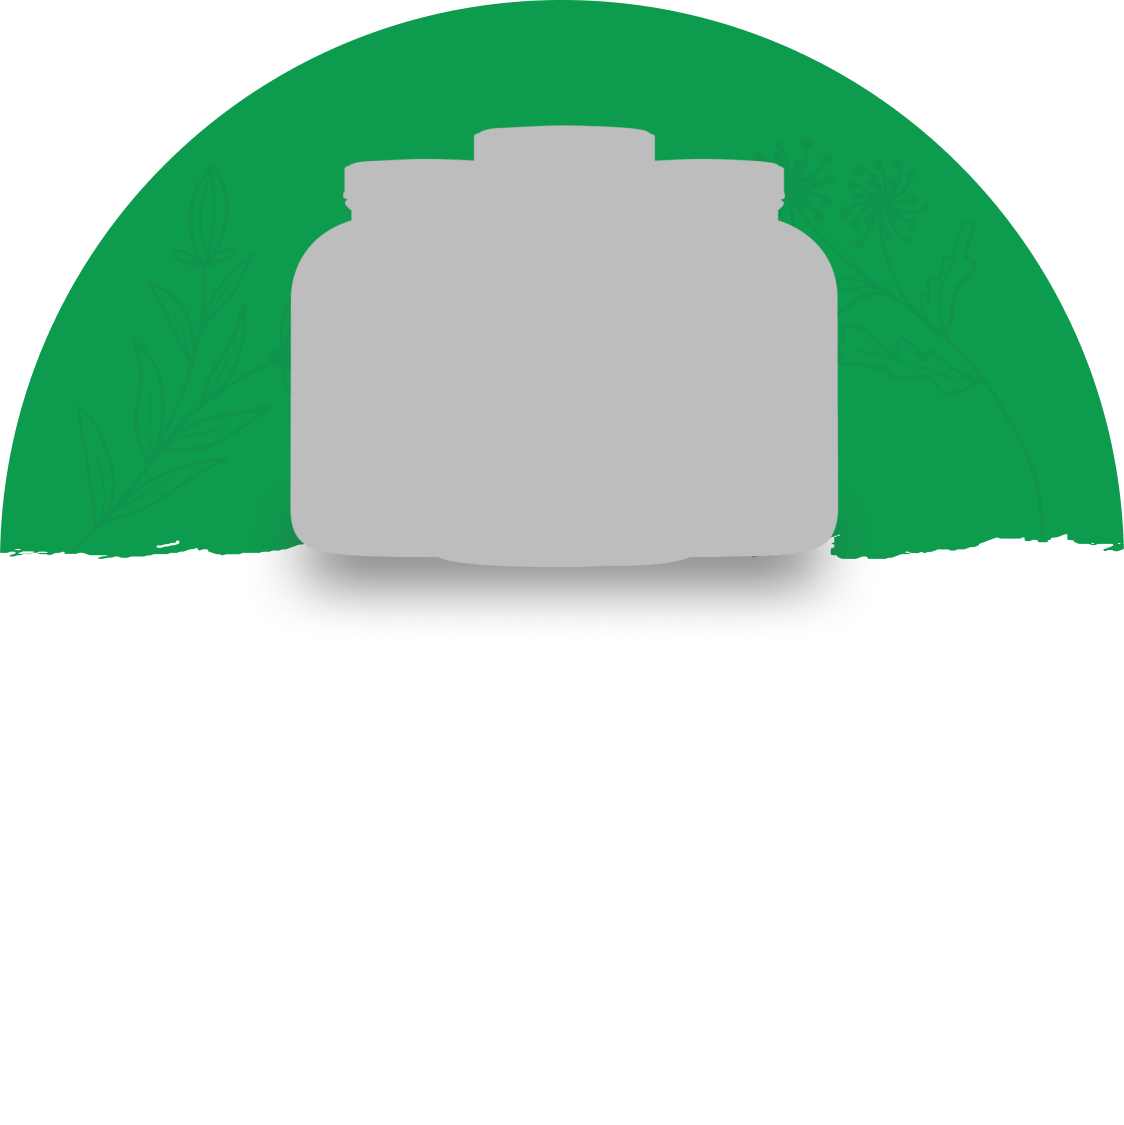
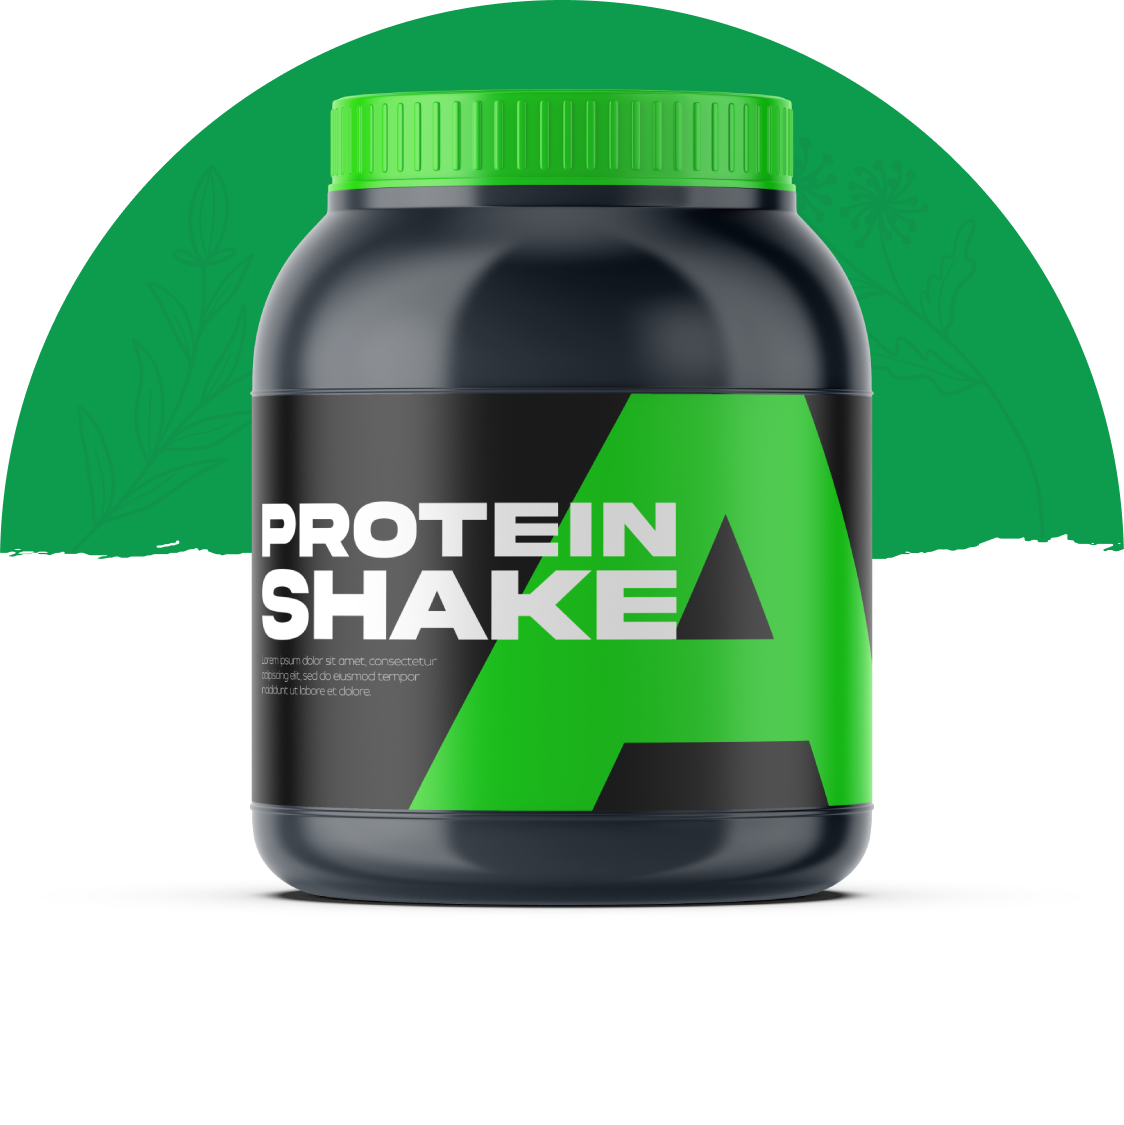
agregar-imagenes

diff --git a/index.html b/index.html
@@ -87,15 +87,17 @@
               <img class="mask-group-3" src="img/mask-group-2.png" />
             </div>
           </div>
+          <!-------------------------->
+
           <div class="features">
             <div class="overlap-4">
-              <img class="vector" src="img/vector.svg" />
+              <img class="vector" src="img/vector-1.svg" />
               <img class="vector-2" src="img/vector-1.svg" />
               <div class="bg"></div>
               <div class="element">
+                
                 <div class="overlap-group-2">
                   <div class="ellipse"></div>
-                  <img class="img-2" src="img/tape-measure-1.svg" />
                 </div>
                 <div class="text-wrapper-7">MULTI FRUITS FALVOUR</div>
                 <p class="text-wrapper-8">A thing added to something else in order to complete or enhance it.</p>
@@ -105,13 +107,12 @@
                 <p class="text-wrapper-8">A thing added to something else in order to complete or enhance it.</p>
                 <div class="overlap-group-2">
                   <div class="ellipse"></div>
-                  <img class="img-2" src="img/test-1.svg" />
+         
                 </div>
               </div>
               <div class="element-3">
                 <div class="overlap-group-2">
                   <div class="ellipse"></div>
-                  <img class="img-2" src="img/weight-1.svg" />
                 </div>
                 <div class="text-wrapper-7">FISHBONE DIAGRAM</div>
                 <p class="text-wrapper-8">A thing added to something else in order to complete or enhance it.</p>
@@ -119,14 +120,16 @@
               <div class="element-4">
                 <div class="overlap-group-2">
                   <div class="ellipse"></div>
-                  <img class="img-2" src="img/abs-1.svg" />
                 </div>
                 <div class="text-wrapper-7">100% FAT BLASTING</div>
                 <p class="text-wrapper-8">A thing added to something else in order to complete or enhance it.</p>
               </div>
+              <!---------
               <img class="frame" src="img/frame.svg" />
-              <img class="frame-2" src="img/frame-1.svg" />
+              --------->
+              <!-------
               <div class="mask-group-4"></div>
+              -------->
             </div>
           </div>
           <div class="features-products">
@@ -147,7 +150,7 @@
                       <div class="group-5">
                         <div class="overlap-group-3">
                           <div class="blur"></div>
-                          <img class="features-2" src="img/features-product01-1.png" />
+                          <img class="features-2" src="img/Proteina-1.png" />
                         </div>
                       </div>
                     </div>
@@ -181,7 +184,7 @@
                           src="img/mentha-spicata-patchouli-peppermint-flavor-mint-png-transparent.png"
                         />
                         <div class="blur-2"></div>
-                        <img class="features-3" src="img/features-product03-1.png" />
+                        <img class="features-3" src="img/Proteina-3.png" />
                       </div>
                     </div>
                   </div>
@@ -215,7 +218,7 @@
                       <div class="group-13">
                         <div class="overlap-group-5">
                           <div class="blur-3"></div>
-                          <img class="features-4" src="img/features-product02-1.png" />
+                          <img class="features-4" src="img/Proteina-2.png" />
                         </div>
                       </div>
                     </div>
@@ -252,7 +255,7 @@
             <div class="overlap-group-6">
               <img class="tea-2" src="img/tea-laves000-2-1.png" />
               <div class="blur-4"></div>
-              <img class="ingredients-img" src="img/ingredients-img-1.png" />
+              <img class="ingredients-img" src="img/Proteina-4.png" />
             </div>
           </div>
           <div class="element-6">
@@ -376,7 +379,7 @@
               <div class="group-25">
                 <div class="element-13">
                   <div class="overlap-group-11">
-                    <img class="pricing-2" src="img/pricing-01-3.png" />
+                    <img class="pricing-2" src="img/Proteina-9.png" />
                     <div class="essential-wrapper"><div class="essential">ESSENTIAL</div></div>
                     <p class="text-wrapper-24">Any Time Money Back Guaranteed</p>
                     <div class="group-26">
@@ -424,7 +427,7 @@
                       </div>
                     </div>
                     <button class="btn-3"><div class="text-wrapper-12">Buy Now</div></button>
-                    <img class="pricing-3" src="img/pricing-02-2.png" />
+                    <img class="pricing-3" src="img/Proteina-11.png" />
                     <div class="group-35">
                       <div class="overlap-group-12">
                         <img class="bg-4" src="img/bg.svg" />
@@ -456,7 +459,7 @@
                       </div>
                     </div>
                     <button class="btn-2"><div class="text-wrapper-30">Buy Now</div></button>
-                    <img class="pricing-4" src="img/pricing-03-2.png" />
+                    <img class="pricing-4" src="img/Proteina-8.png" />
                   </div>
                 </div>
               </div>
@@ -470,8 +473,7 @@
                 <img class="shop-details-3" src="img/shop-details-shape01.png" />
               </div>
               <div class="group-42">
-                <div class="text-wrapper-39">.. PURCHASE SUPTEX&nbsp;&nbsp;..</div>
-                <div class="text-wrapper-40">TESTOSTERONE BOOSTERS</div>
+                <div class="text-wrapper-40">TESTOSTERONE BOOSTER</div>
                 <div class="group-43">
                   <div class="text-wrapper-41">$59</div>
                   <div class="star-6">
@@ -508,14 +510,14 @@
               <div class="group-46">
                 <div class="overlap-14">
                   <div class="ellipse-11"></div>
-                  <img class="details" src="img/details-img01.png" />
+                  <img class="details" src="img/Proteina-3.png" />
                 </div>
               </div>
               <div class="group-47">
                 <div class="element-16">
                   <div class="overlap-group-14">
                     <div class="ellipse-12"></div>
-                    <img class="details-img" src="img/details-img02.png" />
+                    <img class="details-img" src="img/Proteina-6.png" />
                     <div class="group-48">
                       <div class="group-49">
                         <div class="text-wrapper-47">5.00</div>
@@ -527,7 +529,7 @@
                 <div class="element-17">
                   <div class="overlap-group-14">
                     <div class="ellipse-13"></div>
-                    <img class="details-2" src="img/details-img03.png" />
+                    <img class="details-2" src="img/Proteina-2.png" />
                     <div class="group-48">
                       <div class="group-49">
                         <div class="text-wrapper-47">4.00</div>
@@ -539,7 +541,7 @@
                 <div class="element-18">
                   <div class="overlap-group-14">
                     <div class="ellipse-14"></div>
-                    <img class="details-3" src="img/details-img04.png" />
+                    <img class="details-3" src="img/Proteina-4.png" />
                     <div class="group-48">
                       <div class="group-49">
                         <div class="text-wrapper-47">5.00</div>
@@ -843,7 +845,7 @@
             <div class="overlap-19">
               <div class="text-wrapper-81">Box Full of Muscles</div>
               <div class="text-wrapper-82">$85.99</div>
-              <img class="home-shop" src="img/home-shop-thumb01-1.png" />
+              <img class="home-shop" src="img/Proteina-5.png" />
               <div class="group-68">
                 <div class="text-wrapper-83">(30)</div>
                 <div class="star-11">
@@ -870,7 +872,7 @@
           </div>
           <div class="element-40">
             <div class="overlap-19">
-                <img class="home-shop-thumb" src="img/home-shop-thumb02-1.png" alt="Product Image" />
+                <img class="home-shop-thumb" src="img/Proteina-6.png" alt="Product Image" />
                 <div class="text-wrapper-85">Body &amp; Fit</div>
               <div class="text-wrapper-81">Suptex Protein Powder 2kg</div>
               <div class="text-wrapper-82">$88.99</div>
@@ -893,7 +895,7 @@
           </div>
           <div class="element-41">
             <div class="overlap-19">
-              <img class="home-shop-2" src="img/home-shop-thumb03-1.png" />
+              <img class="home-shop-2" src="img/Proteina-7.png" />
               <div class="text-wrapper-81">Amino Energy Health 2kg</div>
               <div class="text-wrapper-82">$120.99</div>
               <div class="group-68">
@@ -923,7 +925,7 @@
           </div>
           <div class="element-43">
             <div class="overlap-19">
-              <img class="home-shop-3" src="img/home-shop-thumb04-1.png" />
+              <img class="home-shop-3" src="img/Proteina-8.png" />
               <div class="text-wrapper-81">Antiaging and Longevity</div>
               <div class="text-wrapper-82">$90.99</div>
               <div class="group-68">

diff --git a/style.css b/style.css
@@ -1891,7 +1891,7 @@
   position: relative;
   width: 410px;
   height: 708px;
-  background-color: #9b0d2f;
+  background-color: #8B0000;
   border-radius: 15px;
 }
 
